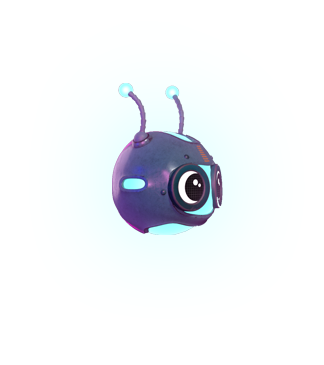
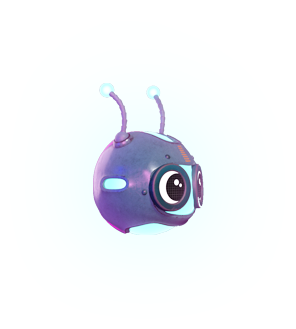
adjust glitch bounding box with glow

Changed region(s): [[0.3041, 0.2128, 0.6993, 0.7295]]

diff --git a/src/Experience/Games/DuckGame.js b/src/Experience/Games/DuckGame.js
@@ -23,20 +23,24 @@ export default class DuckGame {
 
         // Load the background image
         this.bgImage = new Image()
-        this.bgImage.src = 'games/duck-game/Dukk_BG.jpg'
+        this.bgImage.src = 'games/duck-game/D_BG_v02.png'
 
         // Load pipe images
         this.pipeTopImage = new Image()
-        this.pipeTopImage.src = 'games/duck-game/Dukk_platform.png'
+        this.pipeTopImage.src = 'games/duck-game/Dukk_top_platform_v02.png'
         this.pipeBottomImage = new Image()
-        this.pipeBottomImage.src = 'games/duck-game/Dukk_platform.png'
+        this.pipeBottomImage.src = 'games/duck-game/Dukk_bottom_platform_v02.png'
         this.playerImage = new Image()
-        this.playerImage.src = 'games/duck-game/Dukk_GLITCH.png'
+        this.playerImage.src = 'games/duck-game/Dukk_GLITCH_glow.png'
         this.bibleBoxImage = new Image()
-        this.bibleBoxImage.src = 'games/duck-game/Dukk_box.png'
+        this.bibleBoxImage.src = 'games/duck-game/D_Box.png'
+        this.invisibleWallImage = new Image()
+        this.invisibleWallImage.src = 'games/duck-game/D_Wall_2.png'
+        this.bibleBoxLightImage = new Image()
+        this.bibleBoxLightImage.src = 'games/duck-game/D_light.png'
 
         // Wait for all images to load
-        Promise.all([loadImage(this.bgImage), loadImage(this.pipeTopImage), loadImage(this.pipeBottomImage), loadImage(this.playerImage), loadImage(this.bibleBoxImage)]).then(() => {
+        Promise.all([loadImage(this.bgImage), loadImage(this.pipeTopImage), loadImage(this.pipeBottomImage), loadImage(this.playerImage), loadImage(this.bibleBoxImage), loadImage(this.invisibleWallImage), loadImage(this.bibleBoxLightImage)]).then(() => {
             // Once the images are loaded, resize the canvas and draw the background
             this.resizeCanvas()
             this.drawBackground()
@@ -504,19 +508,27 @@ class Player {
         this.game = game // Reference to the game instance
         this.playerImage = playerImage
 
-        const originalWidth = 111
-        const originalHeight = 152
+        const originalWidth = 296
+        const originalHeight = 329
         const aspectRatio = originalHeight / originalWidth
 
-        this.width = 64 * game.scaleX
+        this.width = 128 * game.scaleX
         this.height = this.width * aspectRatio
+
+        const scaleFactor = 0.5 // boundingbox scalling to fit glitch without glow
+
+        const adjustedWidth = this.width * scaleFactor
+        const adjustedHeight = this.height * scaleFactor
+
+        this.offsetX = (this.width - adjustedWidth) / 2
+        this.offsetY = (this.height - adjustedHeight) / 2
 
         // Define the bounding box
         this.boundingBox = {
-            x: this.x,
-            y: this.y + this.height - this.width,
-            width: this.width,
-            height: this.width,
+            x: this.x + this.offsetX,
+            y: this.y + this.offsetY,
+            width: adjustedWidth,
+            height: adjustedHeight,
         }
 
         // Storing bound functions for later removal
@@ -530,8 +542,8 @@ class Player {
 
     updateBoundingBox() {
         // Update bounding box position
-        this.boundingBox.x = this.x
-        this.boundingBox.y = this.y + this.height - this.width
+        this.boundingBox.x = this.x + this.offsetX
+        this.boundingBox.y = this.y + this.offsetY
     }
 
     draw() {
@@ -556,8 +568,8 @@ class Player {
         }
 
         // Draw bounding box (for debug purposes)
-        // this.ctx.strokeStyle = 'red' // Set the stroke color to red
-        // this.ctx.strokeRect(this.boundingBox.x, this.boundingBox.y, this.boundingBox.width, this.boundingBox.height)
+        this.ctx.strokeStyle = 'red' // Set the stroke color to red
+        this.ctx.strokeRect(this.boundingBox.x, this.boundingBox.y, this.boundingBox.width, this.boundingBox.height)
 
         // Draw the player
         this.ctx.drawImage(this.playerImage, this.x, this.y, this.width, this.height)
